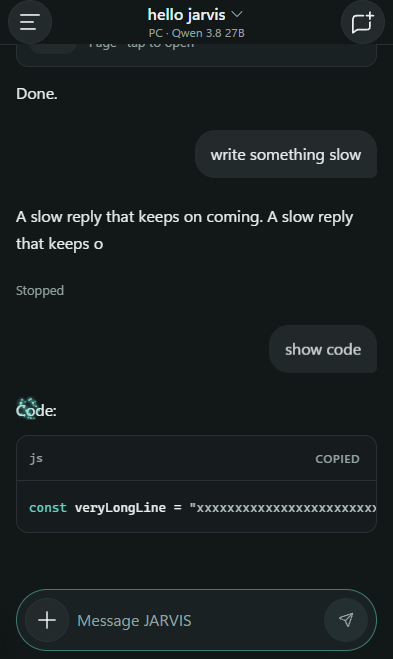
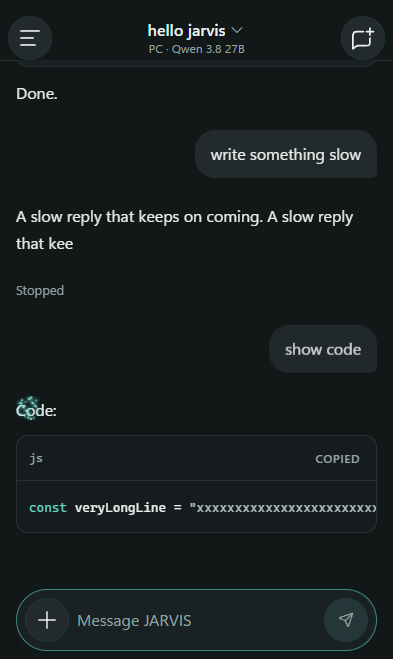
Phone: the top bar and drawer sit 16 pt below the status bar again (iOS 26 fades the first points under it); lab removed

diff --git a/src/ui/mobile.css b/src/ui/mobile.css
@@ -19,7 +19,7 @@ button { -webkit-appearance: none; appearance: none; touch-action: manipulation;
 .m-secondary { background: var(--surface-3); color: var(--text); }
 
 /* ---- the bar ---- */
-.m-bar { flex: none; display: grid; grid-template-columns: var(--tap) 1fr var(--tap); align-items: center; min-height: calc(var(--tap) + env(safe-area-inset-top)); padding: env(safe-area-inset-top) max(var(--s-2), env(safe-area-inset-right)) 0 max(var(--s-2), env(safe-area-inset-left)); background: var(--bg); box-shadow: 0 1px 0 transparent; transition: box-shadow var(--dur-fast) var(--ease-out); }
+.m-bar { flex: none; display: grid; grid-template-columns: var(--tap) 1fr var(--tap); align-items: center; min-height: calc(var(--tap) + env(safe-area-inset-top) + var(--s-4)); padding: calc(env(safe-area-inset-top) + var(--s-4)) /* iOS 26 fades whatever sits in the first few points under the status bar of a home-screen app; the page cannot switch that off */ max(var(--s-2), env(safe-area-inset-right)) 0 max(var(--s-2), env(safe-area-inset-left)); background: var(--bg); box-shadow: 0 1px 0 transparent; transition: box-shadow var(--dur-fast) var(--ease-out); }
 #m-app[data-scrolled="true"] .m-bar { box-shadow: 0 1px 0 var(--border); } /* the hairline appears once the conversation has scrolled under the bar */
 .m-title { min-width: 0; height: var(--tap); display: grid; align-content: center; justify-items: center; padding: 0 var(--s-2); background: transparent; border: 0; border-radius: var(--r-md); color: var(--text); }
 .m-title-row { max-width: 100%; min-width: 0; display: flex; align-items: center; gap: var(--s-1); }
@@ -274,7 +274,7 @@ button.m-prow:active { background: var(--surface-3); }
 .m-drawer.open { pointer-events: auto; }
 .m-drawer-scrim { position: absolute; inset: 0; background: color-mix(in srgb, black 55%, transparent); opacity: 0; transition: opacity 200ms var(--ease-out); }
 .m-drawer.open .m-drawer-scrim { opacity: 1; }
-.m-drawer-panel { position: absolute; left: 0; top: 0; bottom: 0; width: 86%; max-width: calc(var(--s-8) * 6); display: flex; flex-direction: column; padding: env(safe-area-inset-top) var(--s-2) env(safe-area-inset-bottom) max(var(--s-2), env(safe-area-inset-left)); background: var(--bg); border-right: 1px solid var(--border); transform: translateX(-100%); transition: transform 280ms var(--ease-out); }
+.m-drawer-panel { position: absolute; left: 0; top: 0; bottom: 0; width: 86%; max-width: calc(var(--s-8) * 6); display: flex; flex-direction: column; padding: calc(env(safe-area-inset-top) + var(--s-4)) var(--s-2) env(safe-area-inset-bottom) max(var(--s-2), env(safe-area-inset-left)); background: var(--bg); border-right: 1px solid var(--border); transform: translateX(-100%); transition: transform 280ms var(--ease-out); }
 .m-drawer.open .m-drawer-panel { transform: none; }
 .m-drawer-head { flex: none; display: flex; align-items: center; justify-content: space-between; min-height: var(--s-8); padding: 0 var(--s-2); }
 .m-drawer-brand { font: 600 var(--fs-6)/var(--lh-lg) var(--display, var(--sans)); }

diff --git a/src/mobile/main.js b/src/mobile/main.js
@@ -277,4 +277,3 @@ if (!hasToken()) {
 }
 refreshSend();
 
-if (navigator.standalone) import('./lab.js'); // TEMPORARY: layout lab, remove with lab.js
